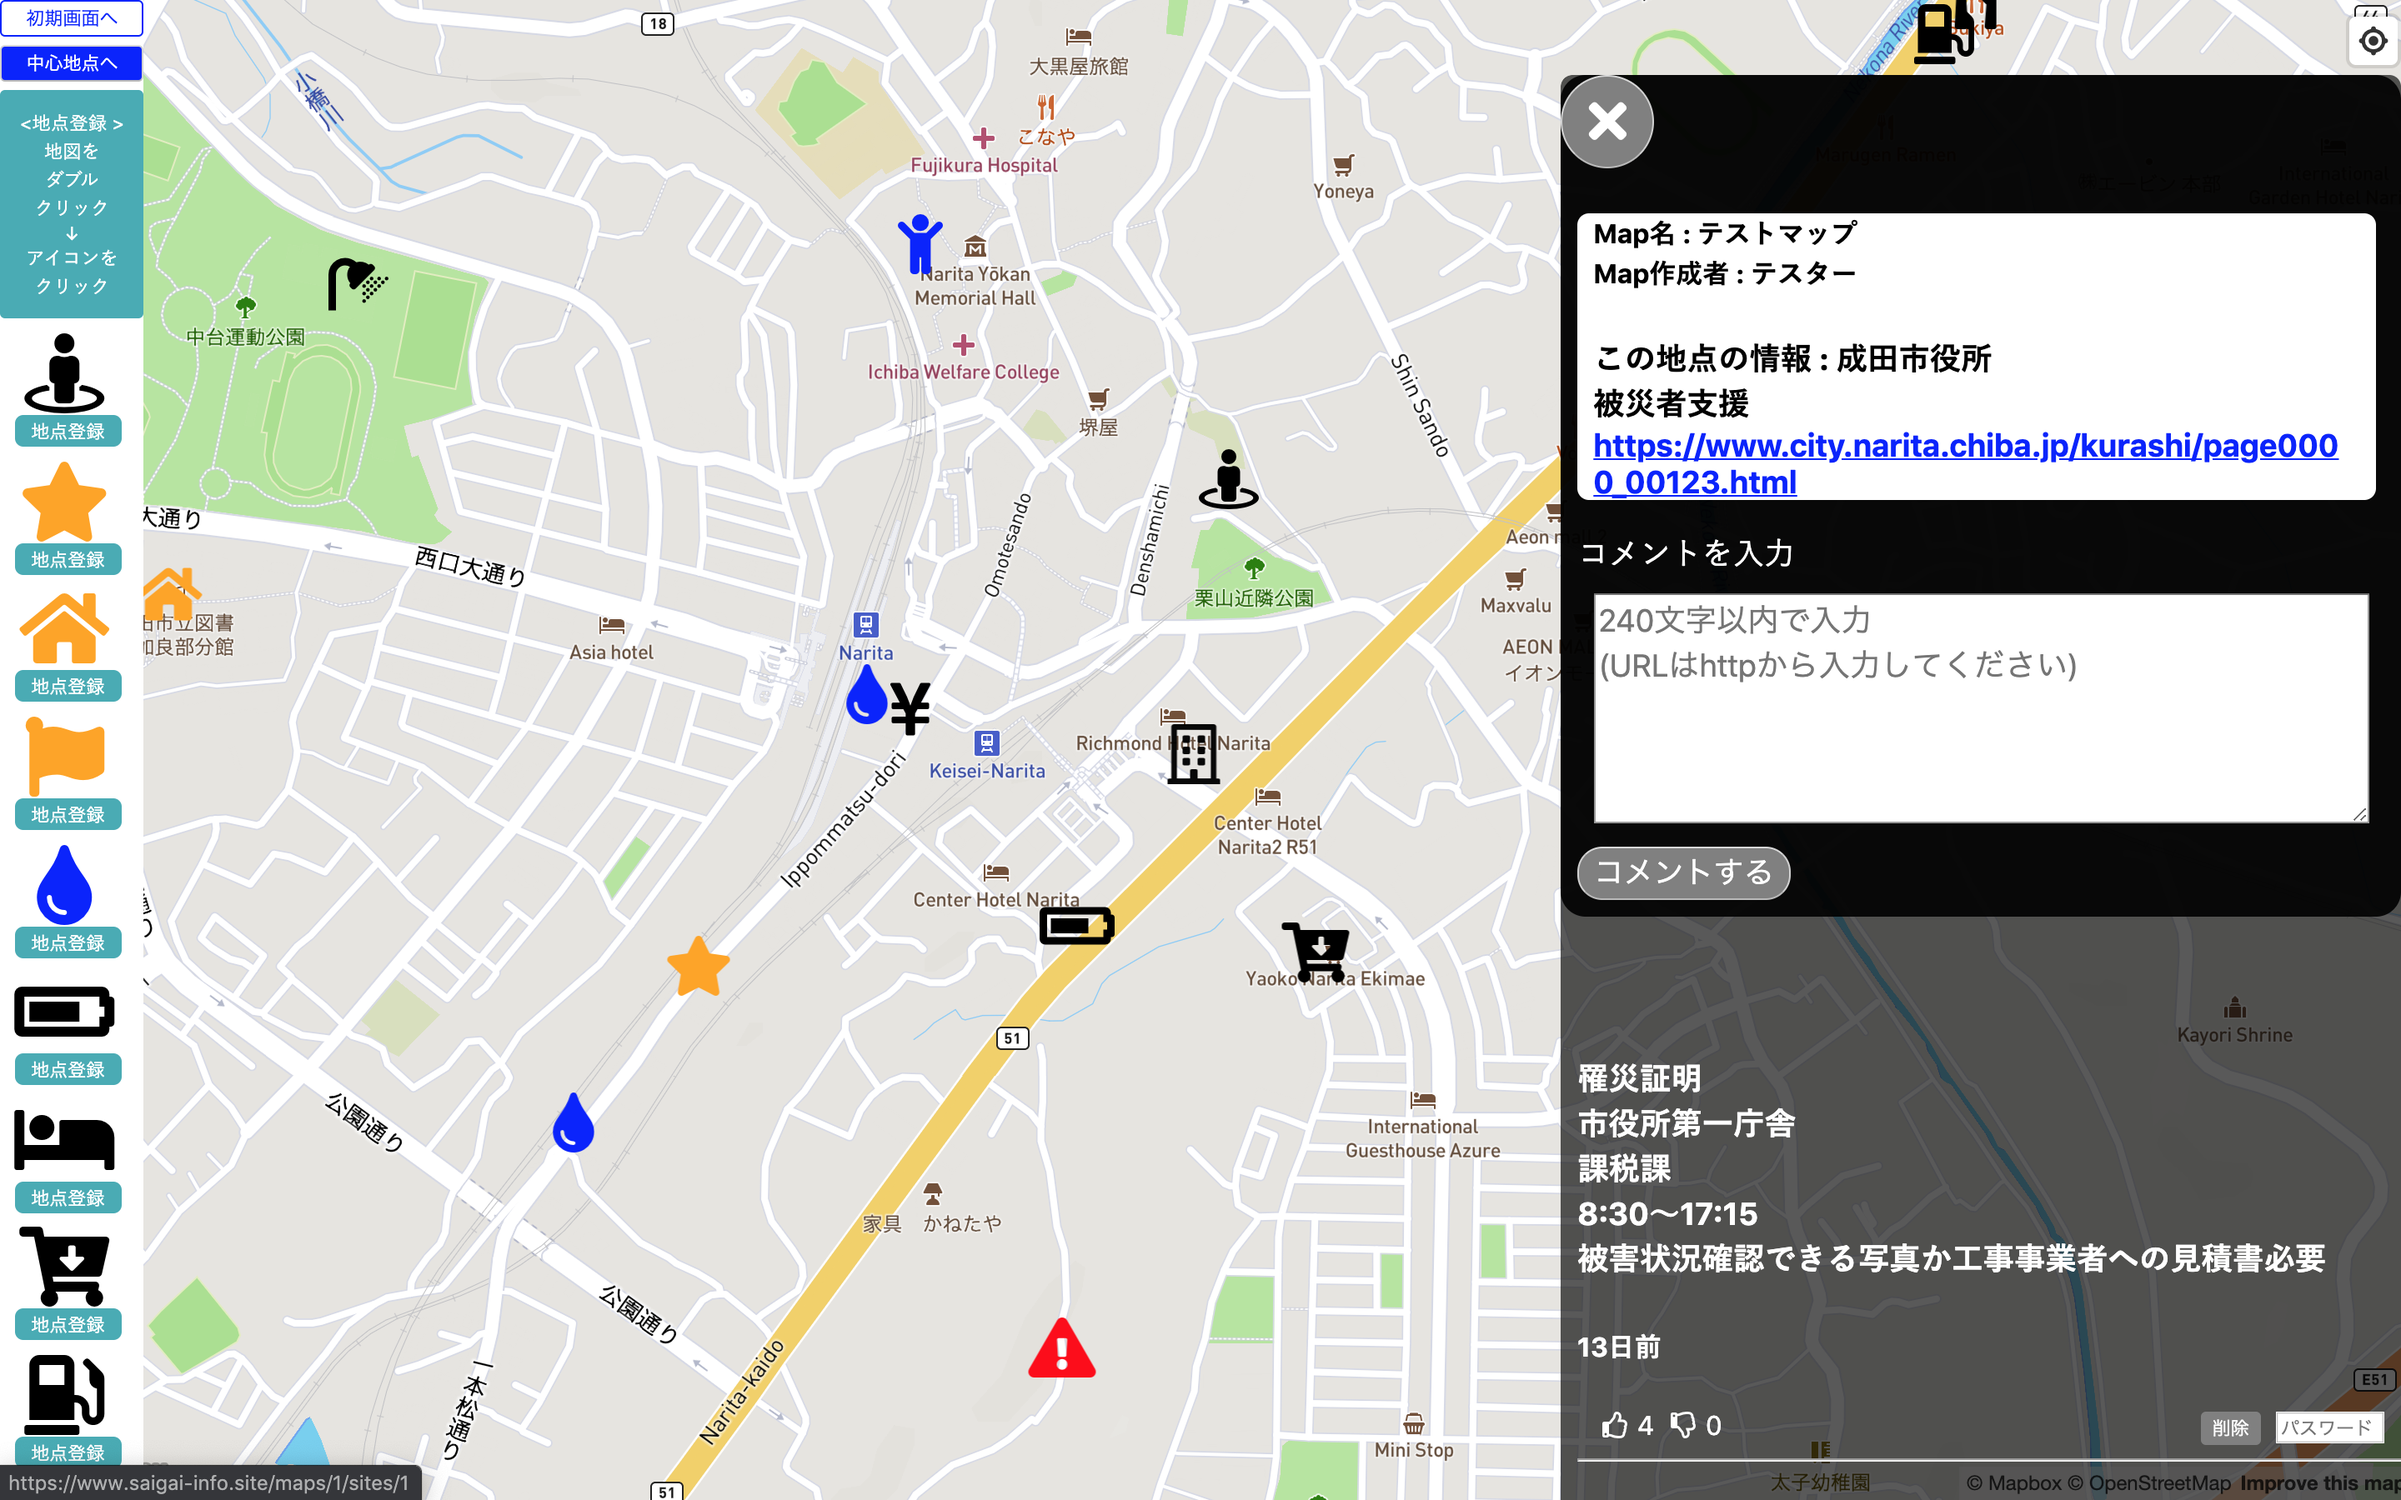
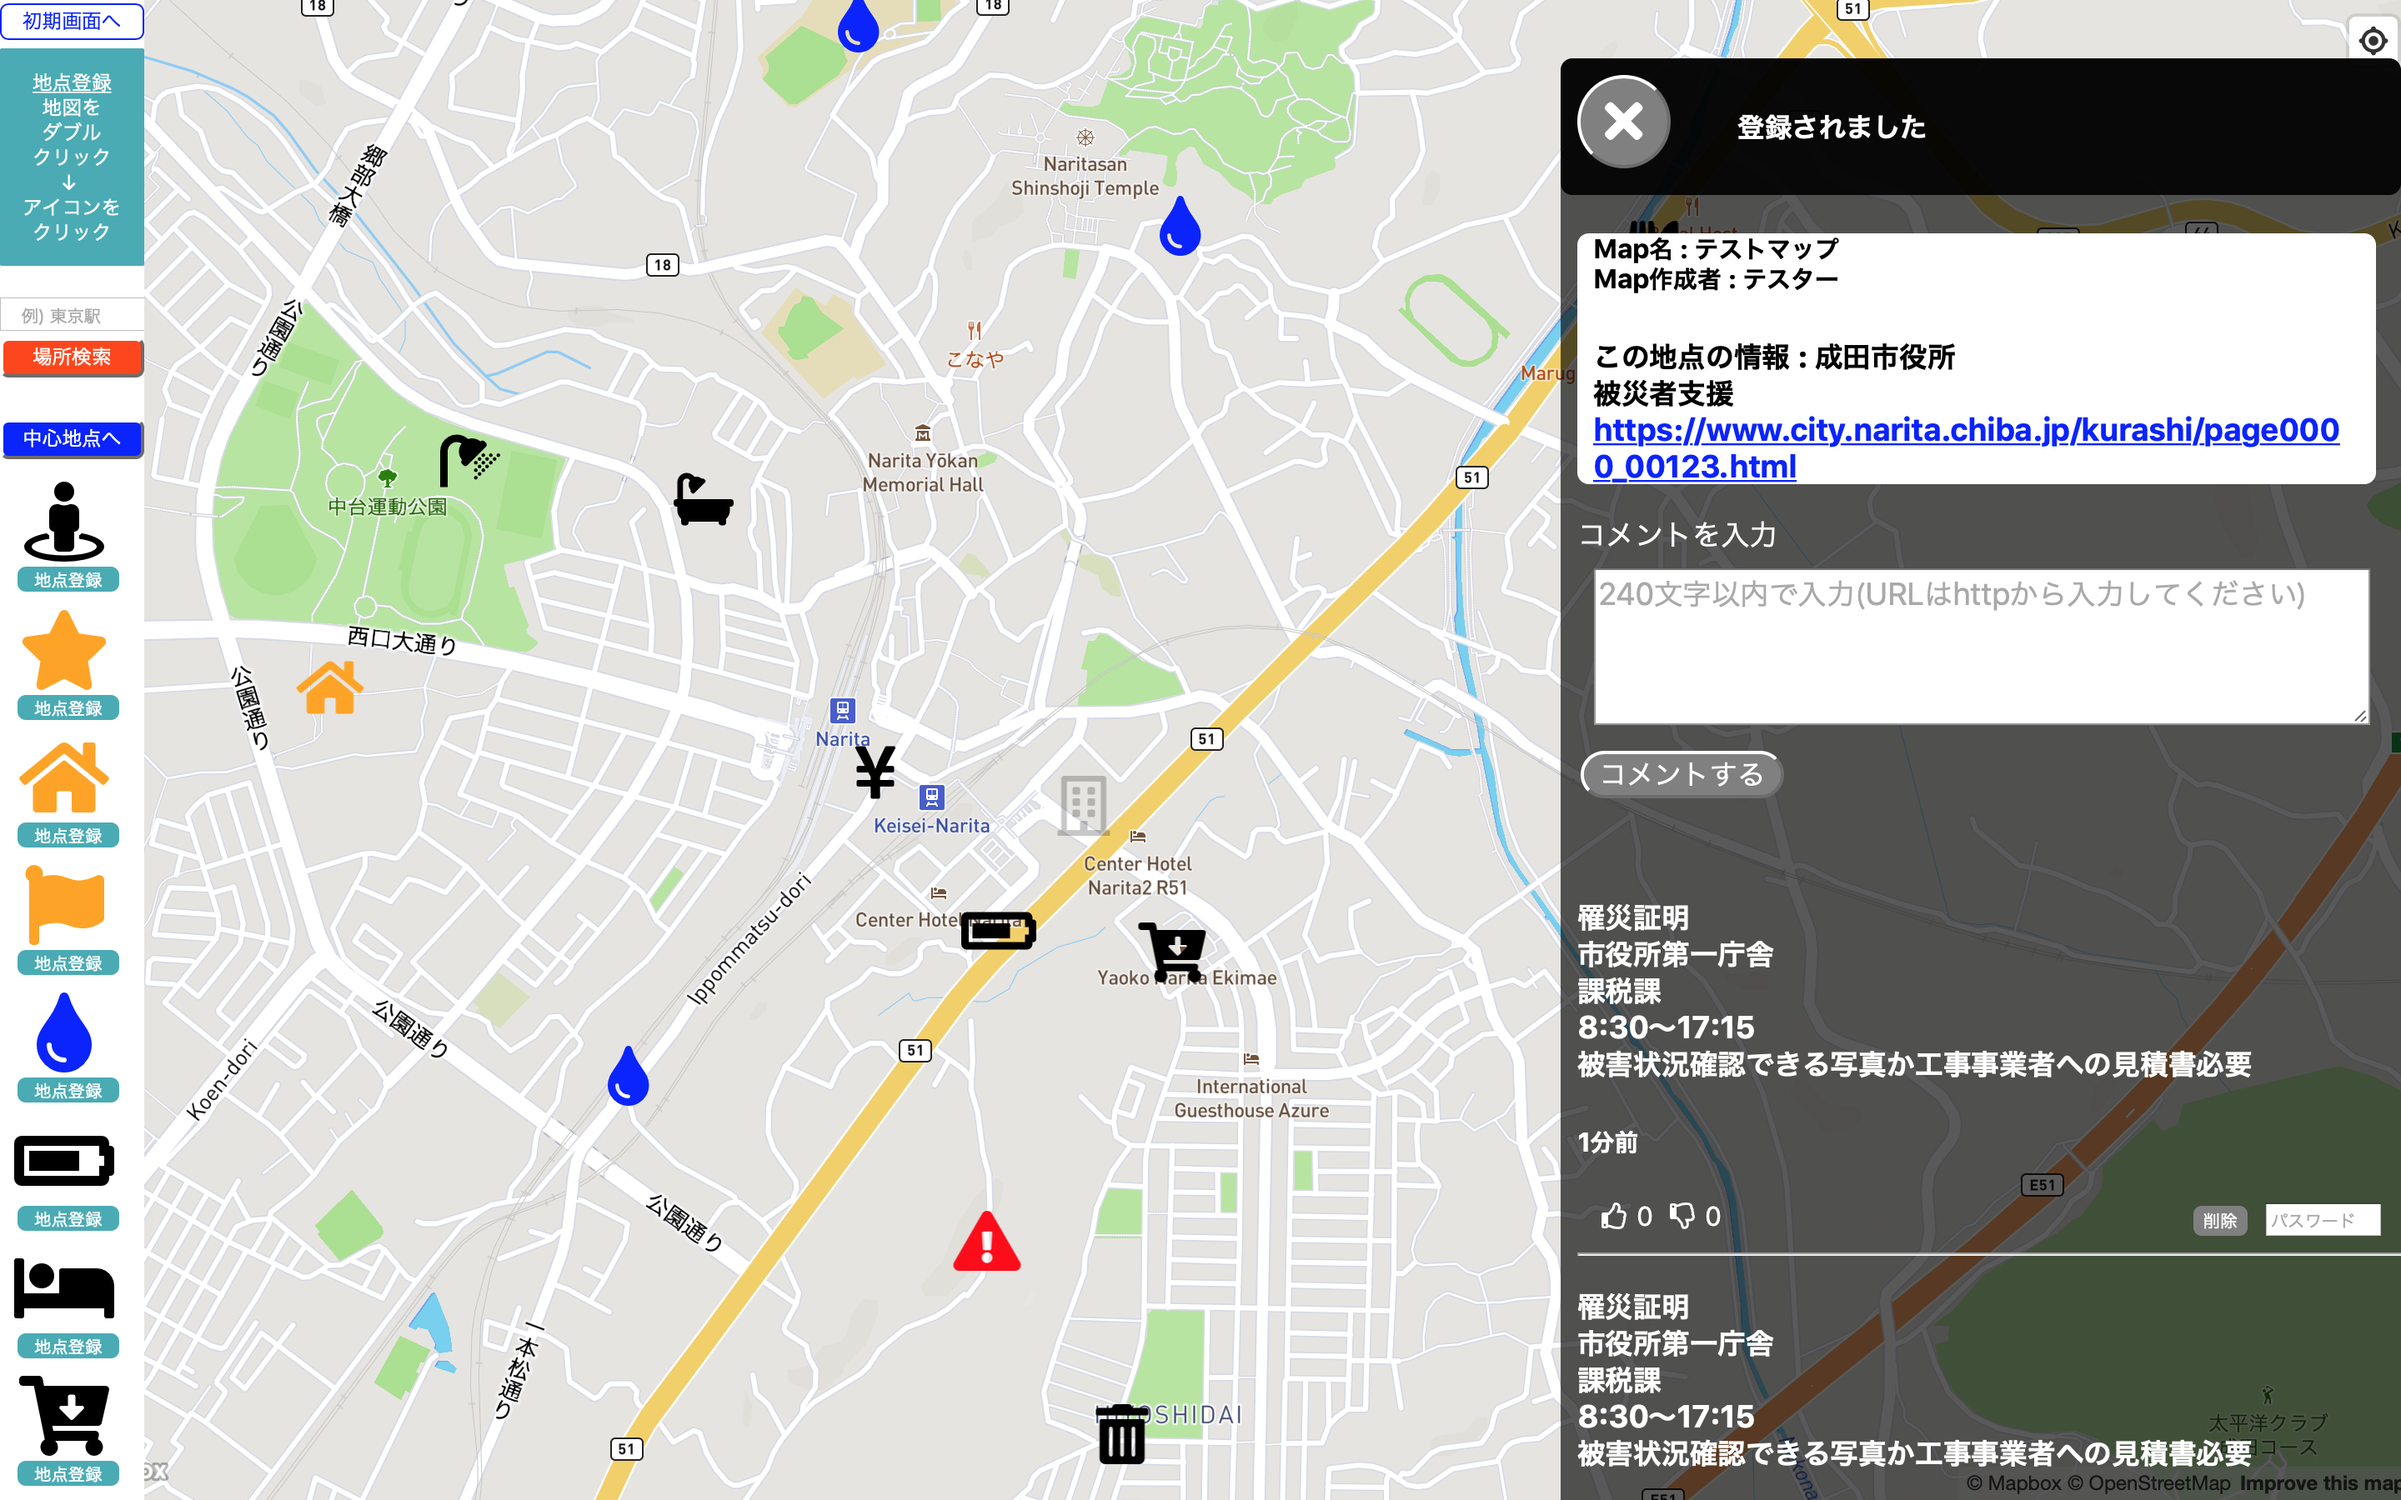
README修正

diff --git a/README.md b/README.md
@@ -11,7 +11,7 @@
 
 ## バージョン
 ruby version: ruby 2.6.5  
-rails version: rails 5.2.4  
+rails version: rails 5.2.4.1  
 
 ## 機能一覧
 - マップ作成機能
@@ -32,6 +32,9 @@ rails version: rails 5.2.4
 - 管理機能
    - マップ作成者は地図上に登録されたアイコンの削除、コメントの削除ができる。
 
+- 地点検索機能
+   - フォームに入力した地点に対応する場所を地図上に表示する。（国内のみ対応)
+
 ## テーブル定義
 ![テープル定義](app/assets/images/table_definition.png)
 
@@ -49,5 +52,5 @@ rails version: rails 5.2.4
 2. bundle install
 3. yarn install
 6. rails db:create rails db:migrate rails db:seed
-7. .envファイル作成（MAPBOX_API_KEY取得・記入)
+7. .envファイル作成（MAPBOX_API_KEY、Google_API_KEY取得・記入)
 8. rails s
